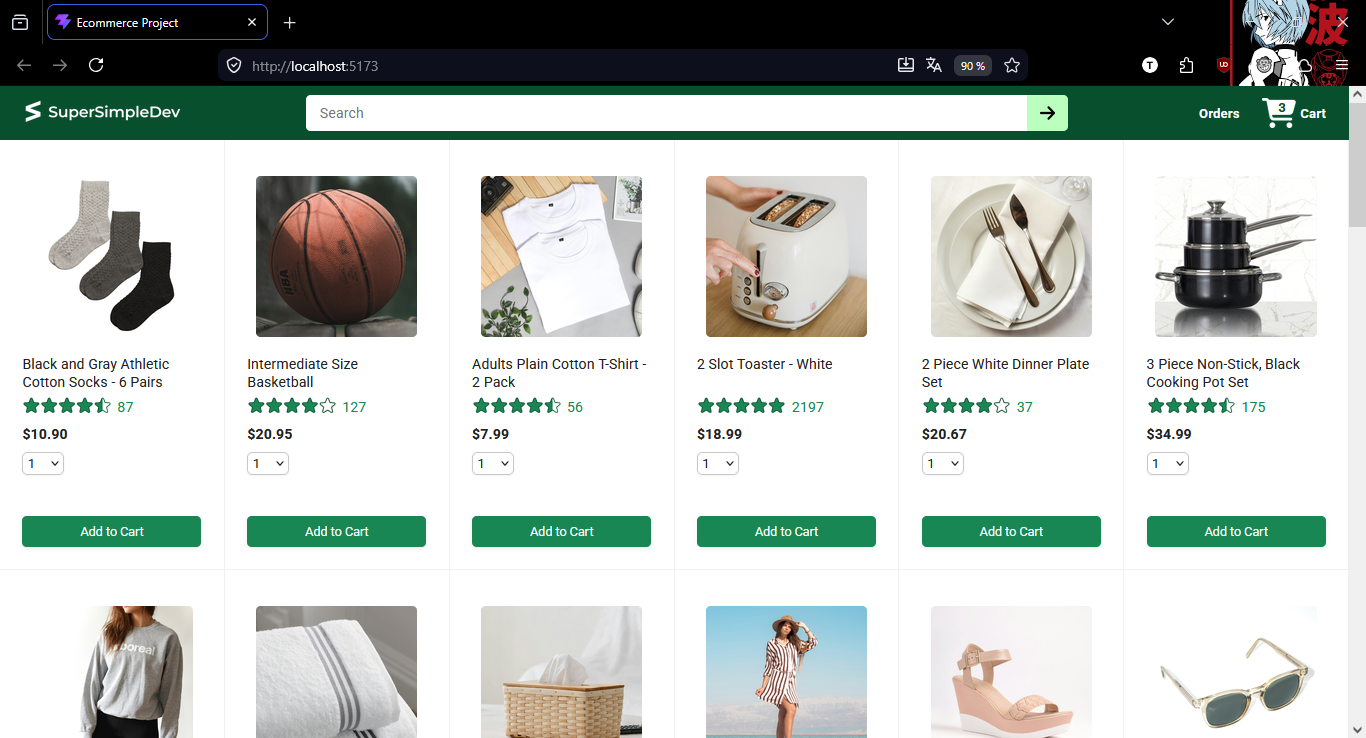
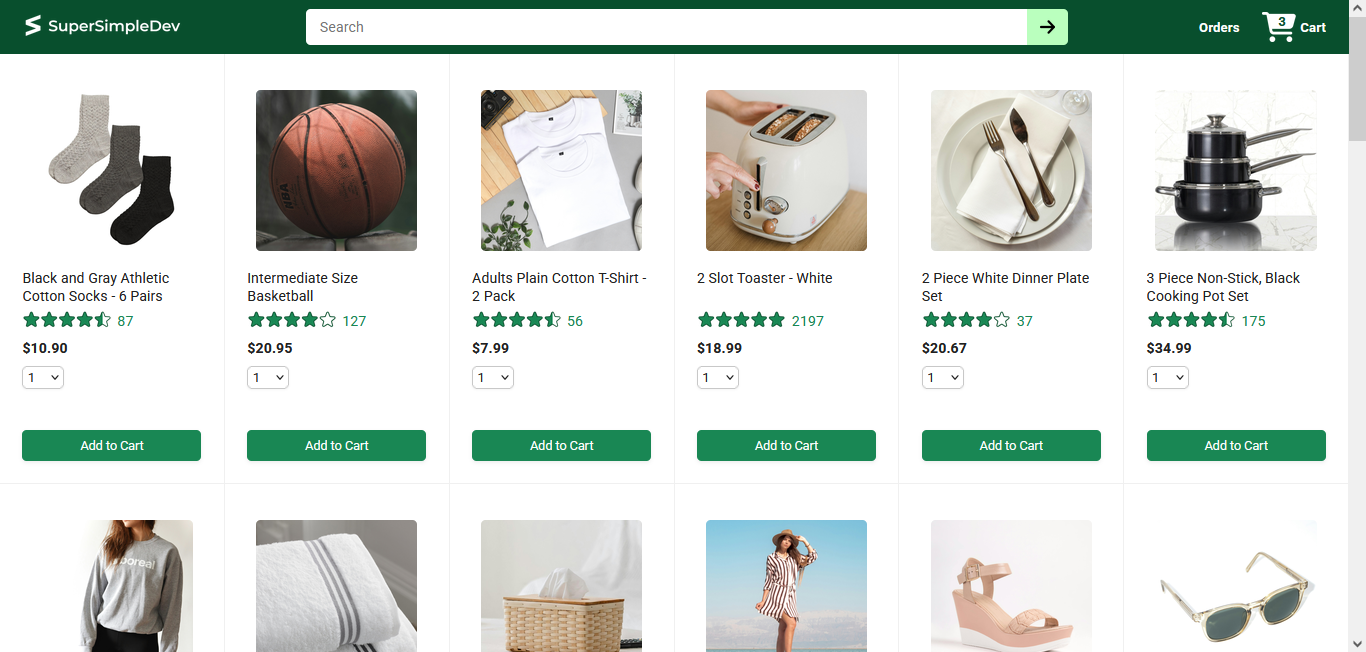
halfway in the Testimonials sections

diff --git a/src/sections/Testimonials.jsx b/src/sections/Testimonials.jsx
@@ -1,4 +1,87 @@
+import { Quote } from 'lucide-react';
+
+
+const testimonials =
+[
+  {
+    quote: "Lorem ipsum dolor sit amet consectetur, adipisicing elit. Magni inventore ratione, minima laboriosam",
+    author: "ta mere",
+    role: "hacker",
+    avatar:"/public/profile-picture.jpg"
+  },
+] 
+
 export const Testimonials = () => {
-  return <section></section>
+  return (
+    <section
+      id="testimonials"
+      className="py-32 relative overflow-hidden"
+    > 
+      <div
+        className="absolute top-1/2 left-1/2 w-[800px] h-[800px] bg-primary/5 rounded-full blur-3xl -translate-x-1/2 -translate-y-1/2"
+      />
+      <div className="container mx-auto px-6 relative z-10">
+        {/* Section Header */}
+        <div
+          className="text-center max-w-3xl 
+        mx-auto mb-16"
+        >
+          <span
+            className="text-secondary-foreground 
+          text-sm font-medium tracking-wider 
+          uppercase animate-fade-in"
+          >
+            What is Their Opinion?
+          </span>
+          <h2
+            className="text-4xl md:text-5xl 
+          font-bold mt-4 mb-6 animate-fade-in 
+          animation-delay-100 text-secondary-foreground"
+          >
+            Positive words from{" "}
+            <span
+              className="font-serif italic 
+            font-normal text-white"
+            >
+              people i worked with.
+            </span>
+          </h2>
+        </div>
+
+        {/* Testimonial Carousel */}
+        <div className='max-w-4xl mx-auto'>
+          <div className='relative'>
+            {/* Main Testimonial */}
+            <div className='glass p-8 rounded-3xl md:p-12 glow-border animate-fade-in animate-delay-200'> 
+              <div className='absolute -top-4 left-9 w-12 h-12 rounded-full bg-primary flex items-center justify-center'>
+                <Quote className='2-6 h-6 text-primary-foreground'/>
+              </div>
+
+              <blockquote className='text-xl md:text-2xl font-medium leading-relaxed mb-8 pt-4'>
+                "{testimonials[0].quote}"
+              </blockquote>
+
+              <div className='flex items-center gap-4'>
+                <img
+                  src={testimonials[0].avatar} 
+                  alt={testimonials[0].author}
+                  className='w-14 h-14 rounded-full object-cover ring-2 ring-primary/20'
+                />
+                <div className='flex items-center gap-4'>
+                  <div className='font-semibold'>
+                    {testimonials[0].author}
+                  </div>
+                  <div className='text-sm text-muted-foreground'>
+                    {testimonials[0].role}
+                  </div>
+                </div>
+              </div>
+            </div>
+          </div>
+        </div>
+      </div>
+    </section>
+
+  )
 }
 

diff --git a/src/sections/Experience.jsx b/src/sections/Experience.jsx
@@ -3,7 +3,7 @@ const experiences = [
     period: "2025 - Present",
     company: "Ge-it University",
     description: "Currently pursuing a Bachelor's degree in Computer Science, focusing on software development, algorithms, and data structures. Engaged in various projects that enhance my coding skills and problem-solving abilities.",
-    technologies: ["React", "JavaScript","MySQL"],
+    technologies: ["React", "JavaScript", "MySQL"],
     current: true,
   },
   {
@@ -56,8 +56,8 @@ export const Experience = () => {
 
               {/* Content */}
               <div className={`pl-8 md: pl-0 ${idx % 2 === 0
-                  ? "md:pr-16 md:text-right"
-                  : "md:col-start-2 md:pl-16"
+                ? "md:pr-16 md:text-right"
+                : "md:col-start-2 md:pl-16"
                 }`}>
 
                 <div className="{`glass p-6 rounded-2xl border border-primary/30 hover:border-primary/50 transition-all duration-500`}">

diff --git a/src/sections/Projects.jsx b/src/sections/Projects.jsx
@@ -8,7 +8,7 @@ const projects = [
     image: "/projects/fact_electricity.PNG",
     tags: ["React", "Css", "JavaScript"],
     link: "#",
-    github: "#"
+    github: "https://github.com/PiouPiouXt/Fact-Electricity.git"
   },
   {
     title: "Simple e-commerce",
@@ -17,6 +17,22 @@ const projects = [
     tags: ["React", "Css", "JavaScript"],
     link: "#",
     github: "#"
+  },
+  {
+    title: "My Portfolio",
+    description: "Making this portofolio website using React, Tailwind CSS, and Vite.",
+    image: "/projects/Portfolio.PNG",
+    tags: ["React", "Tailwind CSS", "Vite"],
+    link: "#",
+    github: "#"
+  },
+  {
+    title: "Glassmorphism Login UI",
+    description: "Showing my design skills with a glassmorphism login UI design using CSS.",
+    image: "/projects/Login_glassmorphism.PNG",
+    tags: ["React", "Css", "Vite"],
+    link: "#",
+    github: "https://github.com/PiouPiouXt/Glassmorphism-Login-UI.git"
   }
 
 ];
